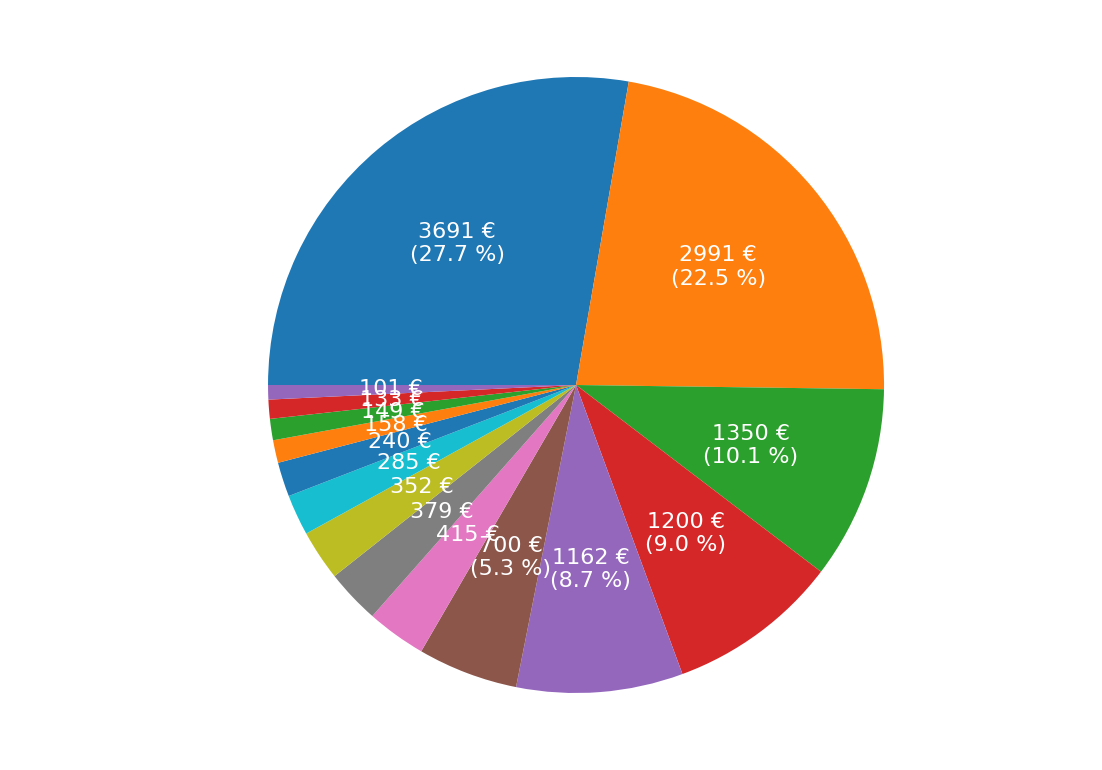
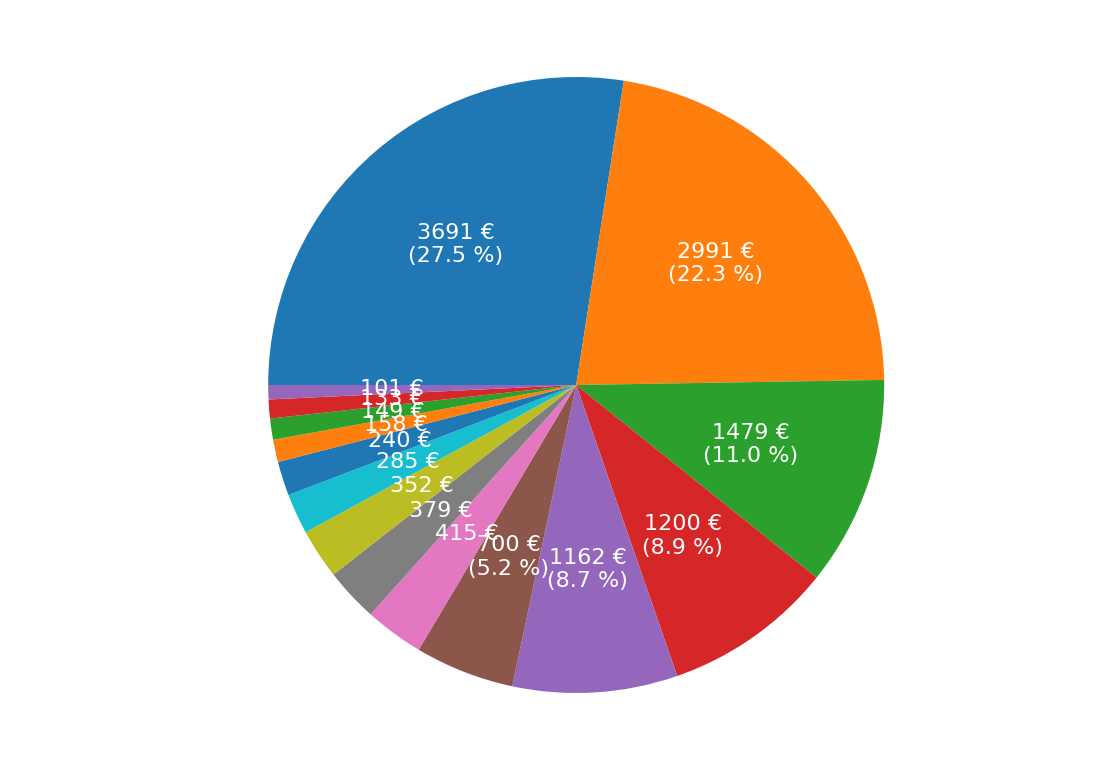
Update 20/04

diff --git a/page_compte.html b/page_compte.html
@@ -864,15 +864,15 @@
     </tr>
     <tr>
       <td>18/11/2022</td>
-      <td>Achat Edith Lavaerts</td>
-      <td><a href="subpage_17.html">Lasagnes</a></td>
-      <td style="color:#34FF27"">120.00 €</td>
-    </tr>
-    <tr>
-      <td>18/11/2022</td>
       <td>Courses Lasagnes</td>
       <td><a href="subpage_17.html">Lasagnes</a></td>
       <td style="color:#FA413B"">-1200.00 €</td>
+    </tr>
+    <tr>
+      <td>18/11/2022</td>
+      <td>Achat Edith Lavaerts</td>
+      <td><a href="subpage_17.html">Lasagnes</a></td>
+      <td style="color:#34FF27"">120.00 €</td>
     </tr>
     <tr>
       <td>18/11/2022</td>
@@ -1326,15 +1326,15 @@
     </tr>
     <tr>
       <td>06/03/2023</td>
-      <td>Payement Kai</td>
-      <td><a href="subpage_24.html">Weekend Q2</a></td>
-      <td style="color:#34FF27"">25.00 €</td>
-    </tr>
-    <tr>
-      <td>06/03/2023</td>
       <td>Payement Aluco</td>
       <td><a href="subpage_24.html">Weekend Q2</a></td>
       <td style="color:#34FF27"">15.00 €</td>
+    </tr>
+    <tr>
+      <td>06/03/2023</td>
+      <td>Payement Kai</td>
+      <td><a href="subpage_24.html">Weekend Q2</a></td>
+      <td style="color:#34FF27"">25.00 €</td>
     </tr>
     <tr>
       <td>07/03/2023</td>
@@ -1344,13 +1344,7 @@
     </tr>
     <tr>
       <td>08/03/2023</td>
-      <td>Payement Florentin</td>
-      <td><a href="subpage_24.html">Weekend Q2</a></td>
-      <td style="color:#34FF27"">25.00 €</td>
-    </tr>
-    <tr>
-      <td>08/03/2023</td>
-      <td>Payement Sajou</td>
+      <td>Payement Galgo</td>
       <td><a href="subpage_24.html">Weekend Q2</a></td>
       <td style="color:#34FF27"">25.00 €</td>
     </tr>
@@ -1362,7 +1356,13 @@
     </tr>
     <tr>
       <td>08/03/2023</td>
-      <td>Payement Galgo</td>
+      <td>Payement Sajou</td>
+      <td><a href="subpage_24.html">Weekend Q2</a></td>
+      <td style="color:#34FF27"">25.00 €</td>
+    </tr>
+    <tr>
+      <td>08/03/2023</td>
+      <td>Payement Florentin</td>
       <td><a href="subpage_24.html">Weekend Q2</a></td>
       <td style="color:#34FF27"">25.00 €</td>
     </tr>
@@ -1374,13 +1374,13 @@
     </tr>
     <tr>
       <td>09/03/2023</td>
-      <td>Payement Mathias</td>
+      <td>Payement Azorès</td>
       <td><a href="subpage_24.html">Weekend Q2</a></td>
       <td style="color:#34FF27"">25.00 €</td>
     </tr>
     <tr>
       <td>09/03/2023</td>
-      <td>Payement Azorès</td>
+      <td>Payement Mathias</td>
       <td><a href="subpage_24.html">Weekend Q2</a></td>
       <td style="color:#34FF27"">25.00 €</td>
     </tr>
@@ -1398,9 +1398,9 @@
     </tr>
     <tr>
       <td>10/03/2023</td>
-      <td>Courses</td>
+      <td>Payement Impala</td>
       <td><a href="subpage_24.html">Weekend Q2</a></td>
-      <td style="color:#FA413B"">-90.06 €</td>
+      <td style="color:#34FF27"">25.00 €</td>
     </tr>
     <tr>
       <td>10/03/2023</td>
@@ -1410,9 +1410,15 @@
     </tr>
     <tr>
       <td>10/03/2023</td>
-      <td>Payement Impala</td>
+      <td>Courses</td>
       <td><a href="subpage_24.html">Weekend Q2</a></td>
-      <td style="color:#34FF27"">25.00 €</td>
+      <td style="color:#FA413B"">-90.06 €</td>
+    </tr>
+    <tr>
+      <td>11/03/2023</td>
+      <td>Courses</td>
+      <td><a href="subpage_24.html">Weekend Q2</a></td>
+      <td style="color:#FA413B"">-29.17 €</td>
     </tr>
     <tr>
       <td>11/03/2023</td>
@@ -1433,10 +1439,10 @@
       <td style="color:#FA413B"">-23.72 €</td>
     </tr>
     <tr>
-      <td>11/03/2023</td>
-      <td>Courses</td>
+      <td>13/03/2023</td>
+      <td>Payement Walaroo</td>
       <td><a href="subpage_24.html">Weekend Q2</a></td>
-      <td style="color:#FA413B"">-29.17 €</td>
+      <td style="color:#34FF27"">25.00 €</td>
     </tr>
     <tr>
       <td>13/03/2023</td>
@@ -1451,22 +1457,16 @@
       <td style="color:#34FF27"">25.00 €</td>
     </tr>
     <tr>
-      <td>13/03/2023</td>
-      <td>Payement Walaroo</td>
-      <td><a href="subpage_24.html">Weekend Q2</a></td>
-      <td style="color:#34FF27"">25.00 €</td>
+      <td>15/03/2023</td>
+      <td>Travail Jabiru</td>
+      <td><a href="subpage_21.html">Travail Q1</a></td>
+      <td style="color:#34FF27"">85.00 €</td>
     </tr>
     <tr>
       <td>15/03/2023</td>
       <td>Test Compte</td>
       <td></td>
       <td style="color:#FA413B"">-0.50 €</td>
-    </tr>
-    <tr>
-      <td>15/03/2023</td>
-      <td>Travail Jabiru</td>
-      <td><a href="subpage_21.html">Travail Q1</a></td>
-      <td style="color:#34FF27"">85.00 €</td>
     </tr>
     <tr>
       <td>16/03/2023</td>
@@ -1536,15 +1536,15 @@
     </tr>
     <tr>
       <td>28/03/2023</td>
-      <td>Caution salle</td>
-      <td></td>
-      <td style="color:#34FF27"">150.00 €</td>
-    </tr>
-    <tr>
-      <td>28/03/2023</td>
       <td>Payement Bateau</td>
       <td><a href="subpage_11.html">Camp Train</a></td>
       <td style="color:#FA413B"">-900.00 €</td>
+    </tr>
+    <tr>
+      <td>28/03/2023</td>
+      <td>Caution salle</td>
+      <td></td>
+      <td style="color:#34FF27"">150.00 €</td>
     </tr>
     <tr>
       <td>29/03/2023</td>
@@ -1602,27 +1602,27 @@
     </tr>
     <tr>
       <td>03/04/2023</td>
-      <td>Payement Jabiru</td>
-      <td><a href="subpage_18.html">Payements Camps</a></td>
-      <td style="color:#34FF27"">225.00 €</td>
-    </tr>
-    <tr>
-      <td>03/04/2023</td>
       <td>Marchandise Dessert</td>
       <td><a href="subpage_15.html">Grand Feu</a></td>
       <td style="color:#FA413B"">-7.40 €</td>
     </tr>
     <tr>
-      <td>04/04/2023</td>
-      <td>Vente Cartes</td>
-      <td><a href="subpage_2.html">Bar Pi 01/04</a></td>
-      <td style="color:#34FF27"">20.00 €</td>
+      <td>03/04/2023</td>
+      <td>Payement Jabiru</td>
+      <td><a href="subpage_18.html">Payements Camps</a></td>
+      <td style="color:#34FF27"">225.00 €</td>
     </tr>
     <tr>
       <td>04/04/2023</td>
       <td>Dépôt Cash Banque</td>
       <td></td>
       <td style="color:#34FF27"">495.00 €</td>
+    </tr>
+    <tr>
+      <td>04/04/2023</td>
+      <td>Vente Cartes</td>
+      <td><a href="subpage_2.html">Bar Pi 01/04</a></td>
+      <td style="color:#34FF27"">20.00 €</td>
     </tr>
     <tr>
       <td>14/04/2023</td>
@@ -1667,10 +1667,16 @@
       <td style="color:#34FF27"">225.00 €</td>
     </tr>
     <tr>
+      <td>18/04/2023</td>
+      <td>Payement Mazama</td>
+      <td><a href="subpage_18.html">Payements Camps</a></td>
+      <td style="color:#34FF27"">129.00 €</td>
+    </tr>
+    <tr>
       <td></td>
       <td>Total</td>
       <td></td>
-      <td style="color:#34FF27"">3047.35 €</td>
+      <td style="color:#34FF27"">3176.35 €</td>
     </tr>
   </tbody>
 </table>

diff --git a/page_total.html b/page_total.html
@@ -1314,15 +1314,15 @@
     </tr>
     <tr>
       <td>13/02/2023</td>
-      <td>Travail Kai Hokkaido Impala Bengal Ouandji</td>
-      <td><a href="subpage_21.html">Travail Q1</a></td>
-      <td style="color:#34FF27"">125.00 €</td>
-    </tr>
-    <tr>
-      <td>13/02/2023</td>
       <td>Travail Corsac</td>
       <td><a href="subpage_21.html">Travail Q1</a></td>
       <td style="color:#34FF27"">95.00 €</td>
+    </tr>
+    <tr>
+      <td>13/02/2023</td>
+      <td>Travail Kai Hokkaido Impala Bengal Ouandji</td>
+      <td><a href="subpage_21.html">Travail Q1</a></td>
+      <td style="color:#34FF27"">125.00 €</td>
     </tr>
     <tr>
       <td>13/02/2023</td>
@@ -1722,21 +1722,15 @@
     </tr>
     <tr>
       <td>16/04/2023</td>
-      <td>Travail Beira</td>
-      <td><a href="subpage_22.html">Travail Q2</a></td>
-      <td style="color:#34FF27"">50.00 €</td>
-    </tr>
-    <tr>
-      <td>16/04/2023</td>
       <td>Déco Brouette</td>
       <td><a href="subpage_14.html">Fête d'unité</a></td>
       <td style="color:#FA413B"">-14.44 €</td>
     </tr>
     <tr>
-      <td>17/04/2023</td>
-      <td>Payement Beira</td>
-      <td><a href="subpage_18.html">Payements Camps</a></td>
-      <td style="color:#34FF27"">225.00 €</td>
+      <td>16/04/2023</td>
+      <td>Travail Beira</td>
+      <td><a href="subpage_22.html">Travail Q2</a></td>
+      <td style="color:#34FF27"">50.00 €</td>
     </tr>
     <tr>
       <td>17/04/2023</td>
@@ -1745,10 +1739,22 @@
       <td style="color:#34FF27"">225.00 €</td>
     </tr>
     <tr>
+      <td>17/04/2023</td>
+      <td>Payement Beira</td>
+      <td><a href="subpage_18.html">Payements Camps</a></td>
+      <td style="color:#34FF27"">225.00 €</td>
+    </tr>
+    <tr>
+      <td>18/04/2023</td>
+      <td>Payement Mazama</td>
+      <td><a href="subpage_18.html">Payements Camps</a></td>
+      <td style="color:#34FF27"">129.00 €</td>
+    </tr>
+    <tr>
       <td></td>
       <td>Total</td>
       <td></td>
-      <td style="color:#34FF27"">3282.78 €</td>
+      <td style="color:#34FF27"">3411.78 €</td>
     </tr>
   </tbody>
 </table>

diff --git a/index.html b/index.html
@@ -9,7 +9,7 @@
 <body>
     <h1>Comptes Pis</h1>
 
-    <button onclick="location.href='page_compte.html'" type="button" class="BasicButton">Compte<br>3047.35 €</button>
+    <button onclick="location.href='page_compte.html'" type="button" class="BasicButton">Compte<br>3176.35 €</button>
     <button onclick="location.href='page_cash.html'" type="button" class="BasicButton">Cash<br>77.93 €</button>
     <button onclick="location.href='page_materiel.html'" type="button" class="BasicButton">Matériel<br>157.50 €</button>
     <br><br><br><br><br>
@@ -18,7 +18,7 @@
         <button onclick="location.href='page_graphs.html'" type="button" class="CategoryButton">Graphes</button>
     </p>
     <br><br><br>
-    <button onclick="location.href='page_total.html'" type="button" class="TotalButton">Total 3282.78 €</button>
+    <button onclick="location.href='page_total.html'" type="button" class="TotalButton">Total 3411.78 €</button>
     
     
 </body>

diff --git a/subpage_18.html b/subpage_18.html
@@ -52,9 +52,14 @@
       <td style="color:#34FF27"">225.00 €</td>
     </tr>
     <tr>
+      <td>18/04/2023</td>
+      <td>Payement Mazama</td>
+      <td style="color:#34FF27"">129.00 €</td>
+    </tr>
+    <tr>
       <td></td>
       <td>Recettes Totales</td>
-      <td style="color:#34FF27"">1350.00 €</td>
+      <td style="color:#34FF27"">1479.00 €</td>
     </tr>
     <tr>
       <td></td>
@@ -64,7 +69,7 @@
     <tr>
       <td></td>
       <td>Total</td>
-      <td style="color:#34FF27"">1350.00 €</td>
+      <td style="color:#34FF27"">1479.00 €</td>
     </tr>
   </tbody>
 </table>

diff --git a/page_by_activity.html b/page_by_activity.html
@@ -139,7 +139,7 @@
     <tr>
       <td>03/04/2023</td>
       <td><a href="subpage_18.html">Payements Camps</a></td>
-      <td style="color:#34FF27"">1350.00 €</td>
+      <td style="color:#34FF27"">1479.00 €</td>
     </tr>
     <tr>
       <td>16/04/2023</td>
@@ -149,7 +149,7 @@
     <tr>
       <td></td>
       <td>Total</td>
-      <td style="color:#34FF27"">3282.78 €</td>
+      <td style="color:#34FF27"">3411.78 €</td>
     </tr>
   </tbody>
 </table>
